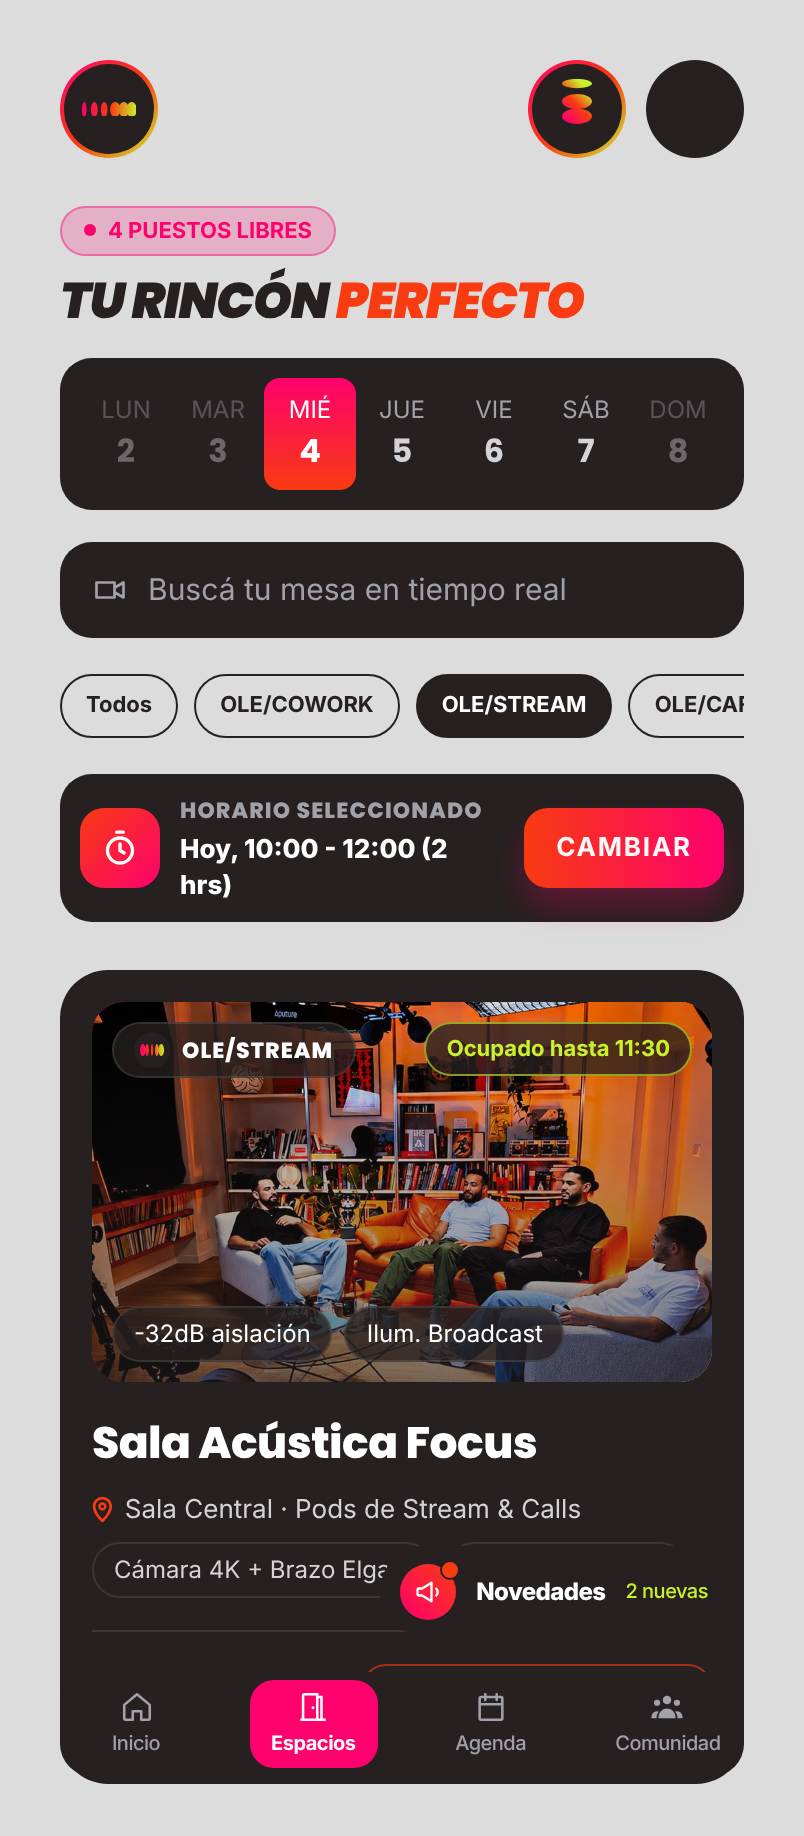
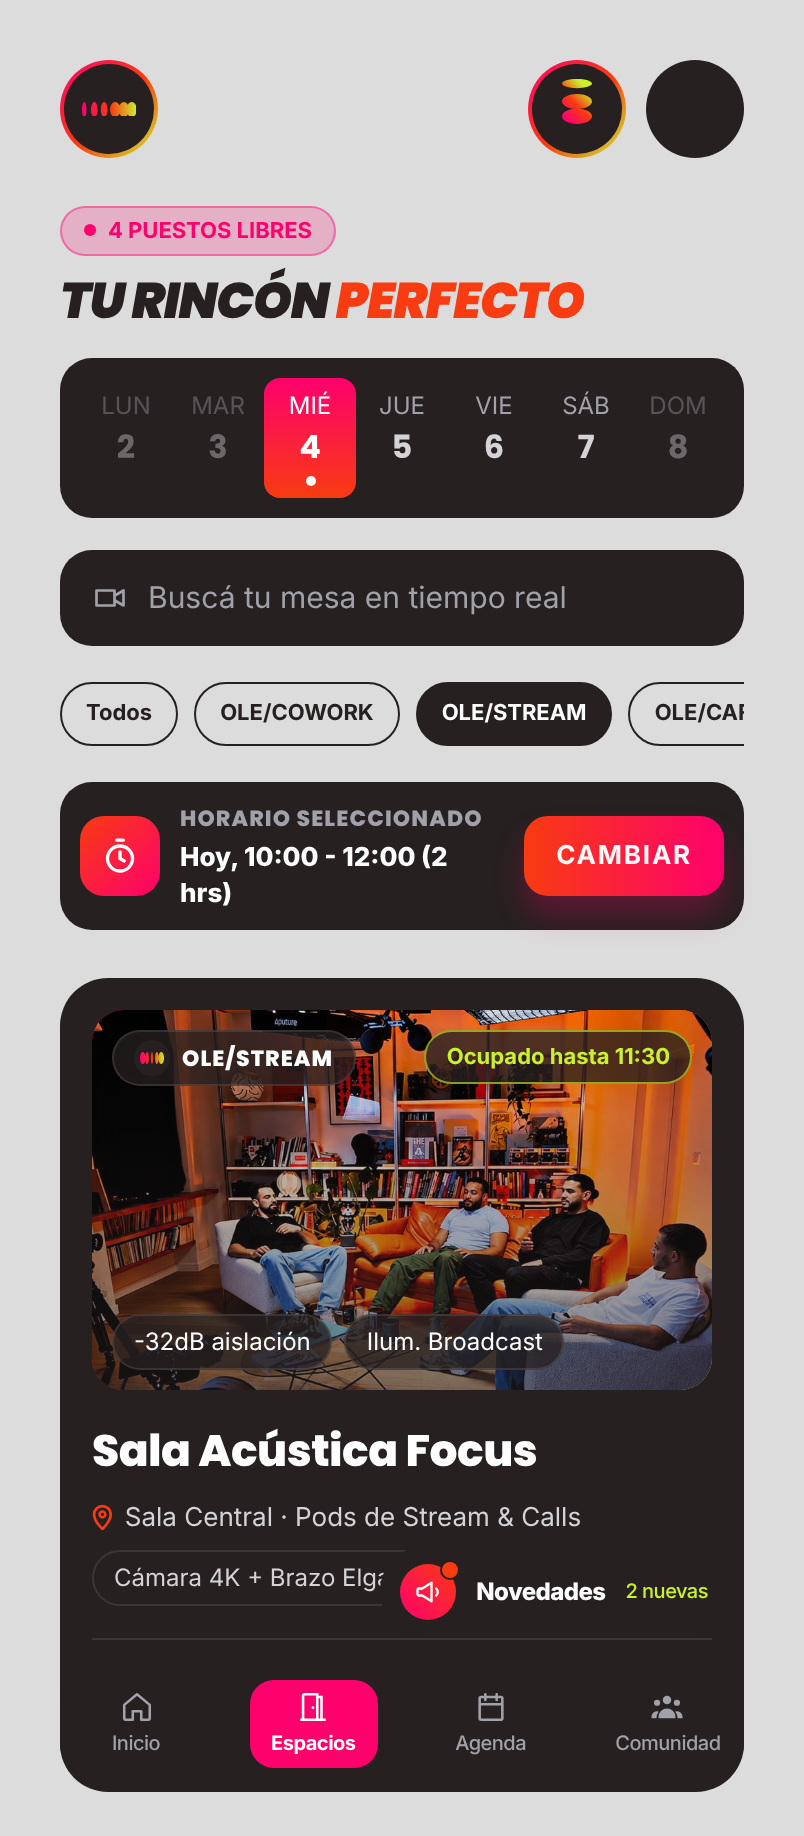
Etapa 8 — Espacios (revisión 3: puntos de actividad y cookie de chocolate)
Claude-Session: https://claude.ai/code/session_0116dvceVdoahqryjdDfmCBu

diff --git a/src/components/espacios/SelectorSemana.tsx b/src/components/espacios/SelectorSemana.tsx
@@ -10,24 +10,33 @@ type Props = {
   dias: Date[];
   seleccionado: Date;
   ahora: Date;
+  // Días en los que la persona tiene algo agendado (reserva; eventos en la Etapa 9).
+  diasConActividad?: Date[];
   onElegir: (dia: Date) => void;
 };
 
 // Selector de día (Figma: ESPACIOS, LUN–DOM). Solo se pueden elegir hoy y los 3 días siguientes.
-export function SelectorSemana({ dias, seleccionado, ahora, onElegir }: Props) {
+export function SelectorSemana({
+  dias,
+  seleccionado,
+  ahora,
+  diasConActividad = [],
+  onElegir,
+}: Props) {
   return (
     <View style={styles.contenedor}>
       {dias.map((dia) => {
         const activo = mismoDia(dia, seleccionado);
         const habilitado = diaReservable(dia, ahora);
         const nombre = diaCorto(dia);
+        const conActividad = diasConActividad.some((d) => mismoDia(d, dia));
         return (
           <Pressable
             key={dia.getTime()}
             onPress={() => onElegir(dia)}
             disabled={!habilitado}
             accessibilityRole="button"
-            accessibilityLabel={`${nombre} ${dia.getDate()}`}
+            accessibilityLabel={`${nombre} ${dia.getDate()}${conActividad ? ', tenés una reserva' : ''}`}
             accessibilityState={{ selected: activo, disabled: !habilitado }}
             style={[styles.dia, !habilitado && styles.deshabilitado]}
           >
@@ -46,6 +55,15 @@ export function SelectorSemana({ dias, seleccionado, ahora, onElegir }: Props) {
             <Texto variante="tituloTarjeta" color={activo ? 'textoSobreOscuro' : 'textoSecundario'}>
               {dia.getDate()}
             </Texto>
+            {/* Punto como en Figma: ese día tenés algo agendado (blanco sobre el día elegido). */}
+            <View
+              style={[
+                styles.punto,
+                conActividad && {
+                  backgroundColor: activo ? colores.textoSobreOscuro : colores.acentoNaranja,
+                },
+              ]}
+            />
           </Pressable>
         );
       })}
@@ -64,11 +82,12 @@ const styles = StyleSheet.create({
   },
   dia: {
     flex: 1,
-    minHeight: 56,
+    minHeight: 60,
     alignItems: 'center',
     justifyContent: 'center',
     borderRadius: radios.md,
   },
   fondoActivo: { borderRadius: radios.md },
+  punto: { width: 5, height: 5, marginTop: espacio.xxs, borderRadius: radios.pastilla },
   deshabilitado: { opacity: 0.4 },
 });

diff --git a/tests/espacios.test.tsx b/tests/espacios.test.tsx
@@ -139,6 +139,9 @@ describe('pantalla Espacios', () => {
     expect(screen.getByText('Hoy, 09:00 - 11:00 (2 hrs)')).toBeTruthy();
     expect(screen.getByText('Ocupado hasta 11:30')).toBeTruthy();
     expect(screen.getByText('3 LIBRES')).toBeTruthy();
+    // Punto bajo el día: hoy hay una reserva; mañana no.
+    expect(screen.getByRole('button', { name: 'MIÉ 4, tenés una reserva' })).toBeTruthy();
+    expect(screen.getByRole('button', { name: 'JUE 5' })).toBeTruthy();
   });
 
   it('un miembro reserva y la reserva queda guardada', async () => {

diff --git a/src/app/carta-cafe.tsx b/src/app/carta-cafe.tsx
@@ -70,7 +70,7 @@ export default function CartaCafeScreen() {
             </Texto>
           </View>
           <Texto variante="cuerpoChico" color="textoSecundario">
-            Flat White de especialidad + Cookie casera de avena
+            Flat White de especialidad + Cookie casera de chocolate
           </Texto>
         </View>
       </Tarjeta>

diff --git a/src/app/(tabs)/espacios.tsx b/src/app/(tabs)/espacios.tsx
@@ -88,6 +88,7 @@ export default function EspaciosScreen() {
           dias={diasVisibles(ahora)}
           seleccionado={dia}
           ahora={ahora}
+          diasConActividad={reservas.map((r) => r.inicio)}
           onElegir={elegirDia}
         />
 

diff --git a/docs/DECISIONES_Y_PENDIENTES.md b/docs/DECISIONES_Y_PENDIENTES.md
@@ -52,8 +52,9 @@
 | D-46 | "Ver detalles" y "Cómo llegar" abren un detalle de reserva provisorio (cuándo y dónde); check-in, PIN y mapa en la Etapa 9.                                                                                                                                                                                                                                                            | No hay diseño (P-31).                                                                                              | Botones sin acción.                                                     | 2026-11-03 | Bajo    | Provisional                                                                         |
 | D-47 | Reglas de reserva: horario libre las 24 hs en pasos de 30 min, hasta 3 días de anticipación, cancelación hasta 30 min antes, toda reserva descuenta horas del plan (80 hs, 42 usadas: dato de prueba).                                                                                                                                                                                 | Decisión de la responsable.                                                                                        | —                                                                       | 2026-11-04 | Medio   | Aplicada                                                                            |
 | D-48 | Fotos de los espacios provistas por la responsable (Drive, 2026-11-04), recortadas en horizontal y optimizadas en `assets/imagenes/espacios/`. Si un espacio no tiene foto, se muestra el degradado de marca con el ícono del servicio.                                                                                                                                                | Revisión de la Etapa 8.                                                                                            | —                                                                       | 2026-11-04 | Bajo    | Aplicada                                                                            |
-| D-49 | Se quitan "Gratis" y "1H/DÍA INC." de Figma: el pie muestra cuántas horas descuenta. El botón de la tarjeta de horario dice "CAMBIAR" (abre el selector) en lugar de "CONFIRMAR". Los puntos de color bajo los días no se muestran (sin regla definida).                                                                                                                               | Coherencia con la regla "toda reserva descuenta horas".                                                            | Dejar como Figma.                                                       | 2026-11-04 | Bajo    | Aprobada "CAMBIAR" y pie con horas (2026-11-04)                                     |
+| D-49 | Se quitan "Gratis" y "1H/DÍA INC." de Figma: el pie muestra cuántas horas descuenta. El botón de la tarjeta de horario dice "CAMBIAR" (abre el selector) en lugar de "CONFIRMAR".                                                                                                                                                                                                      | Coherencia con la regla "toda reserva descuenta horas".                                                            | Dejar como Figma.                                                       | 2026-11-04 | Bajo    | Aprobada "CAMBIAR" y pie con horas (2026-11-04)                                     |
 | D-50 | Filtros por servicio (Todos, COWORK, STREAM, CAFÉ, NETWORK) bajo el buscador; espacios ocupados ofrecen "Usar ese horario"; confirmación y selector de horario en panel inferior con el estilo de la app; "PERFECTO" en naranja sólido como D-41.                                                                                                                                      | Pedido de filtrar desde el Home; pantallas no diseñadas en Figma.                                                  | —                                                                       | 2026-11-04 | Bajo    | Provisional, a revisar                                                              |
+| D-51 | Puntos bajo los días de la semana: indican que ese día tenés una reserva o un evento (respuesta de la responsable). Hoy se marcan las reservas (punto naranja; blanco en el día elegido); los eventos se suman en la Etapa 9. Promo del café: "Cookie casera de chocolate" (P-41).                                                                                                     | Respuestas de la responsable, 2026-11-04.                                                                          | —                                                                       | 2026-11-04 | Bajo    | Aplicada                                                                            |
 
 ---
 
@@ -112,13 +113,11 @@
 - ~~**P-39**~~ **Definido (D-30):** el avatar muestra una foto que carga la persona.
 
 - ~~**P-40**~~ **Definido (D-32):** fotos provistas por la responsable.
-- **P-41** La foto de la cookie se llama "Cookie de chocolate" y el producto se renombró así, pero el texto de la promo (de Figma) dice "Cookie casera de avena". ¿Cuál es la correcta?
 
 ### Grupo 9 — Surgidas en la Etapa 6
 
 - **P-42** ¿"CREATIVO" debe llevar el degradado de Figma? Requiere instalar `@react-native-masked-view/masked-view` (gratuita).
 - **P-43** ¿Te parecen bien las correcciones de texto de D-42?
-- **P-45** ¿Qué indican los puntos de color bajo los días en Figma (ESPACIOS)?
 
 ### Grupo 5 — Recursos que faltan
 

diff --git a/docs/ESTADO_DEL_PROYECTO.md b/docs/ESTADO_DEL_PROYECTO.md
@@ -46,7 +46,7 @@
 
 - Etapa 6: bienvenidas (collage interactivo), acceso, registro e inicio de sesión con validaciones; 45 pruebas. Capturas en `docs/capturas-app/etapa-6/`.
 - Etapa 7: Home con saludo, banner, reserva actual (en curso / próxima / sin reserva / invitado) y servicios; 60 pruebas. Capturas en `docs/capturas-app/etapa-7/`.
-- Etapa 8: Espacios con semana, buscador, filtro por servicio, horario, tarjetas con estado, reserva y cancelación simuladas; 75 pruebas. Capturas en `docs/capturas-app/etapa-8/`. Revisiones 1 y 2: fotos reales de los cuatro espacios (Drive); "CAMBIAR" y el pie con horas aprobados.
+- Etapa 8: Espacios con semana, buscador, filtro por servicio, horario, tarjetas con estado, reserva y cancelación simuladas; 75 pruebas. Capturas en `docs/capturas-app/etapa-8/`. Revisiones 1 a 3: fotos reales de los cuatro espacios (Drive), puntos de actividad bajo los días, cookie de chocolate; "CAMBIAR" y el pie con horas aprobados.
 
 ## Pendientes abiertos
 
@@ -55,10 +55,8 @@
 
 ## Preguntas abiertas para la responsable
 
-- P-41: ¿la cookie de la promo es de avena o de chocolate?
 - P-42: ¿"CREATIVO" con degradado (requiere una dependencia)?
 - P-43: ¿aprueba las correcciones de texto de D-42?
-- P-45: ¿qué indican los puntos de color bajo los días?
 
 ## Último informe de cierre
 
